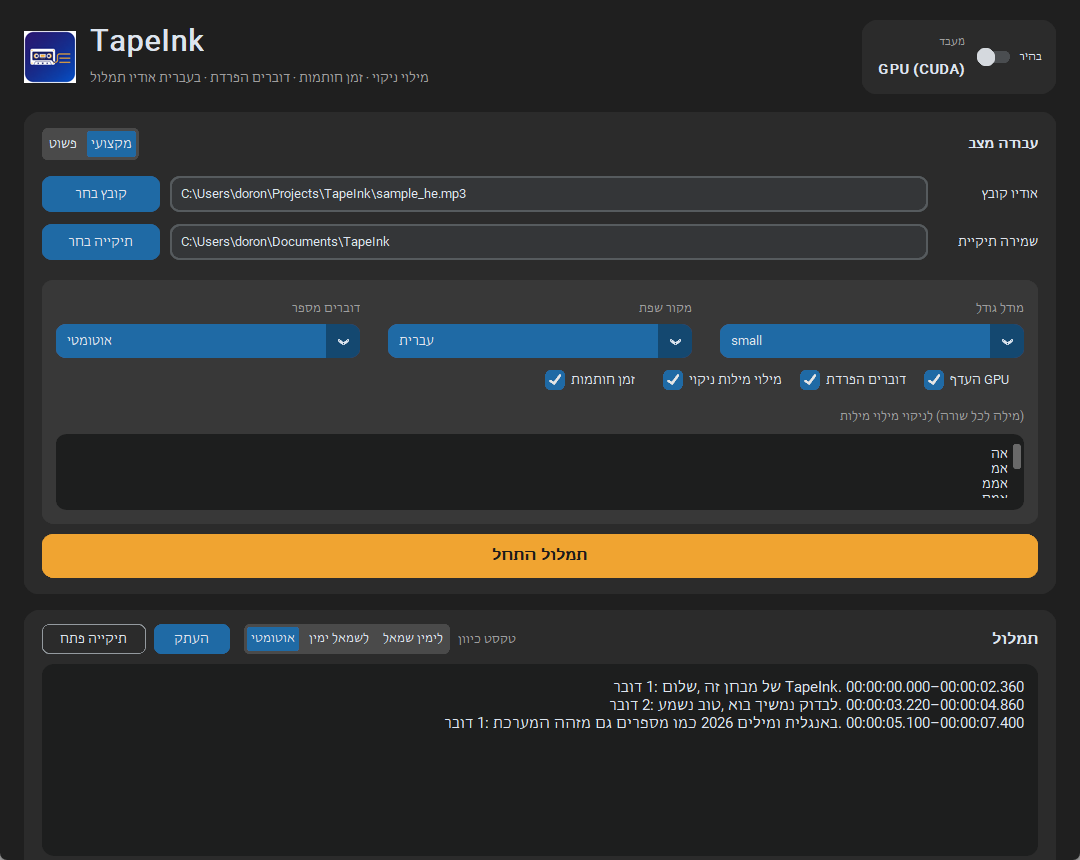
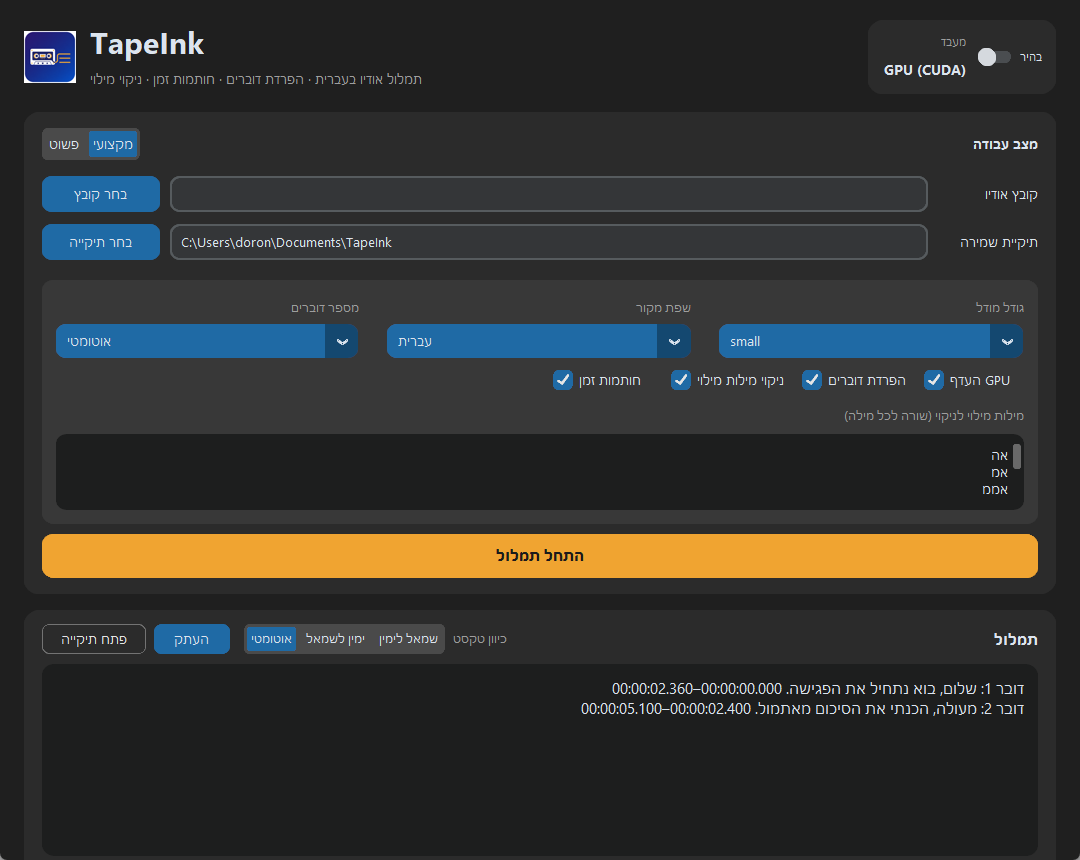
Fix reversed Hebrew word order and invisible ghost button
CustomTkinter's default Roboto font has no Hebrew glyphs, so Tk substituted a fallback per word and laid those runs out left to right, showing every Hebrew label with its words reversed. Select a Hebrew-capable family app-wide instead.

The outlined 'open folder' button inherited the theme's light text colour, which is meant for blue-filled buttons and was invisible until hover.

diff --git a/app.py b/app.py
@@ -8,7 +8,7 @@ import sys
 import threading
 import tkinter as tk
 from pathlib import Path
-from tkinter import filedialog, messagebox
+from tkinter import filedialog, font as tkfont, messagebox
 
 import customtkinter as ctk
 
@@ -35,6 +35,12 @@ CARD_INNER = ("gray86", "gray22")
 MUTED = ("gray38", "gray62")
 ACCENT = "#F0A431"
 ACCENT_HOVER = "#D98E1F"
+GHOST_TEXT = ("gray20", "gray90")
+GHOST_BORDER = ("gray68", "gray45")
+GHOST_HOVER = ("gray82", "gray28")
+
+# Families that actually ship Hebrew glyphs, best first.
+HEBREW_FONTS = ("Segoe UI", "Arial", "Tahoma", "David")
 
 DIRECTION_LABELS = {
     "אוטומטי": textdir.AUTO,
@@ -53,6 +59,7 @@ class TapeInkApp(ctk.CTk):
         super().__init__()
         ctk.set_appearance_mode("Dark")
         ctk.set_default_color_theme("blue")
+        self._apply_hebrew_font()
 
         self.title(APP_TITLE)
         self.geometry("1080x860")
@@ -86,6 +93,21 @@ class TapeInkApp(ctk.CTk):
         self._build()
 
     # ---------- window chrome ----------
+
+    def _apply_hebrew_font(self) -> None:
+        """Pick a font family that covers Hebrew, for every widget in the app.
+
+        CustomTkinter defaults to Roboto, which has no Hebrew glyphs. Tk then
+        substitutes a fallback font word by word and lays those runs out left to
+        right, so a Hebrew sentence shows up with its words in reverse order.
+        One family covering the whole line keeps it a single run, and Tk applies
+        BiDi to it correctly.
+        """
+        available = set(tkfont.families(self))
+        for family in HEBREW_FONTS:
+            if family in available:
+                ctk.ThemeManager.theme["CTkFont"]["family"] = family
+                return
 
     def _apply_icon(self) -> None:
         if not ICON_PATH.exists():
@@ -312,6 +334,9 @@ class TapeInkApp(ctk.CTk):
             corner_radius=8,
             fg_color="transparent",
             border_width=1,
+            border_color=GHOST_BORDER,
+            text_color=GHOST_TEXT,
+            hover_color=GHOST_HOVER,
             command=self._open_output,
         ).pack(side="left", padx=(0, 8))
         ctk.CTkButton(

diff --git a/tapeink/textdir.py b/tapeink/textdir.py
@@ -3,6 +3,10 @@
 Tk on Windows already applies the Unicode BiDi algorithm when drawing text, so
 strings must be passed through unchanged. Direction is used only to decide
 alignment (right for Hebrew, left for English).
+
+This only holds while the widget font covers Hebrew itself. With a font that
+does not, Tk substitutes a fallback per word and orders those words left to
+right, which looks like reversed word order. See HEBREW_FONTS in app.py.
 """
 
 from __future__ import annotations
